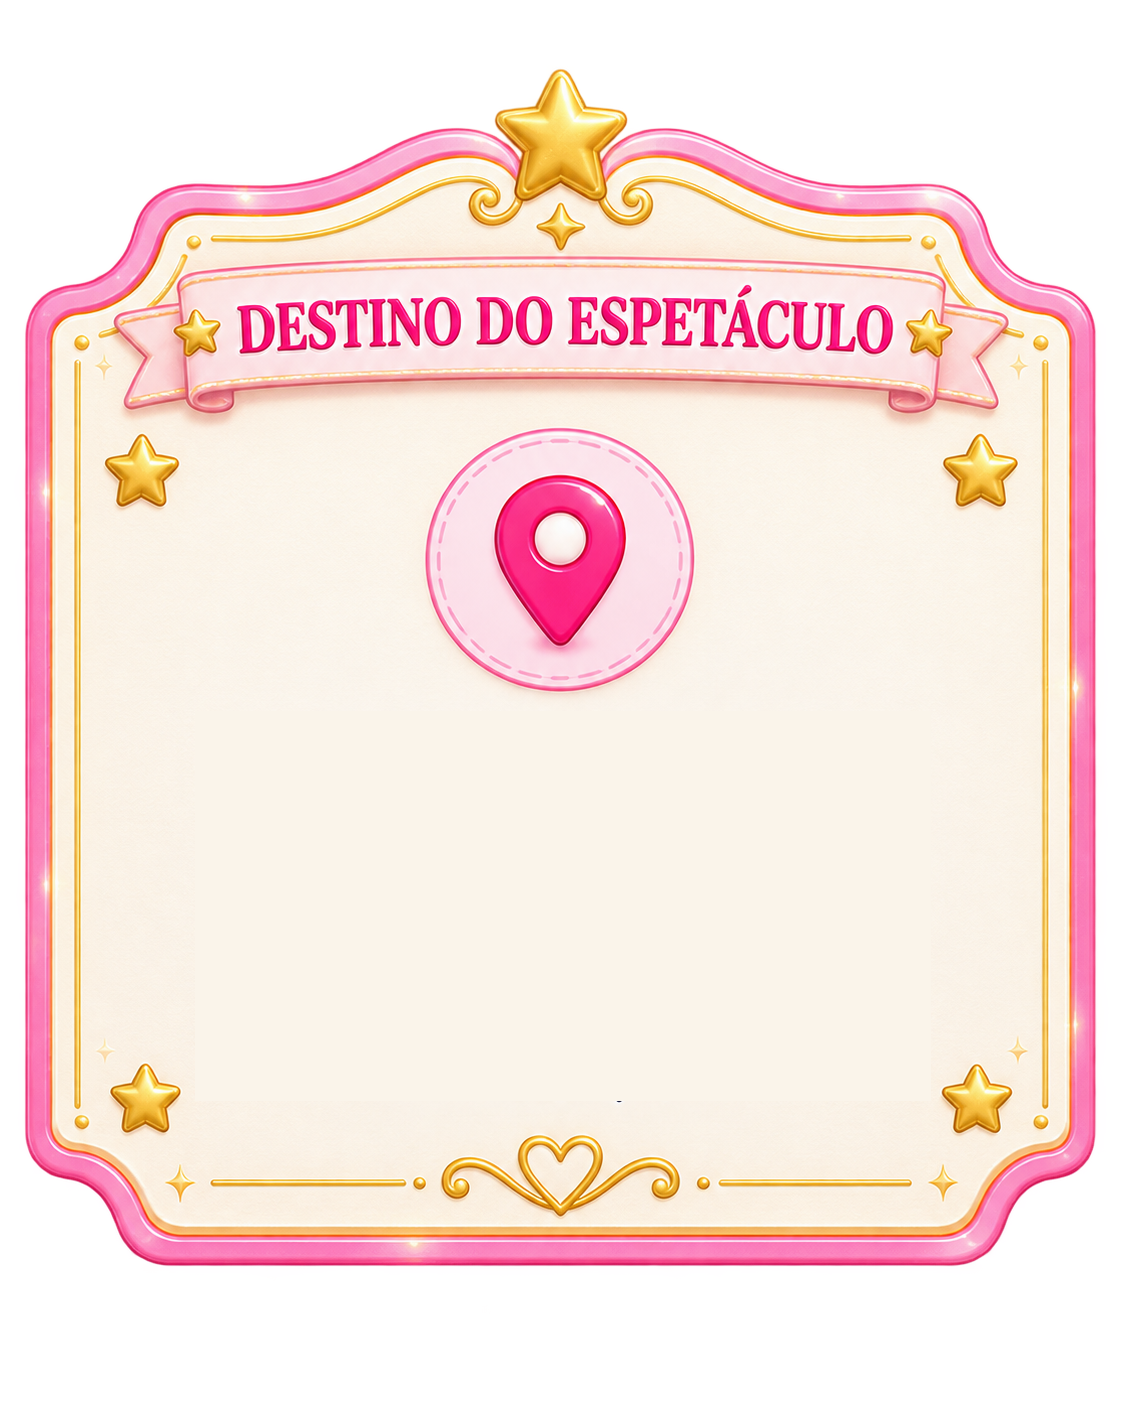
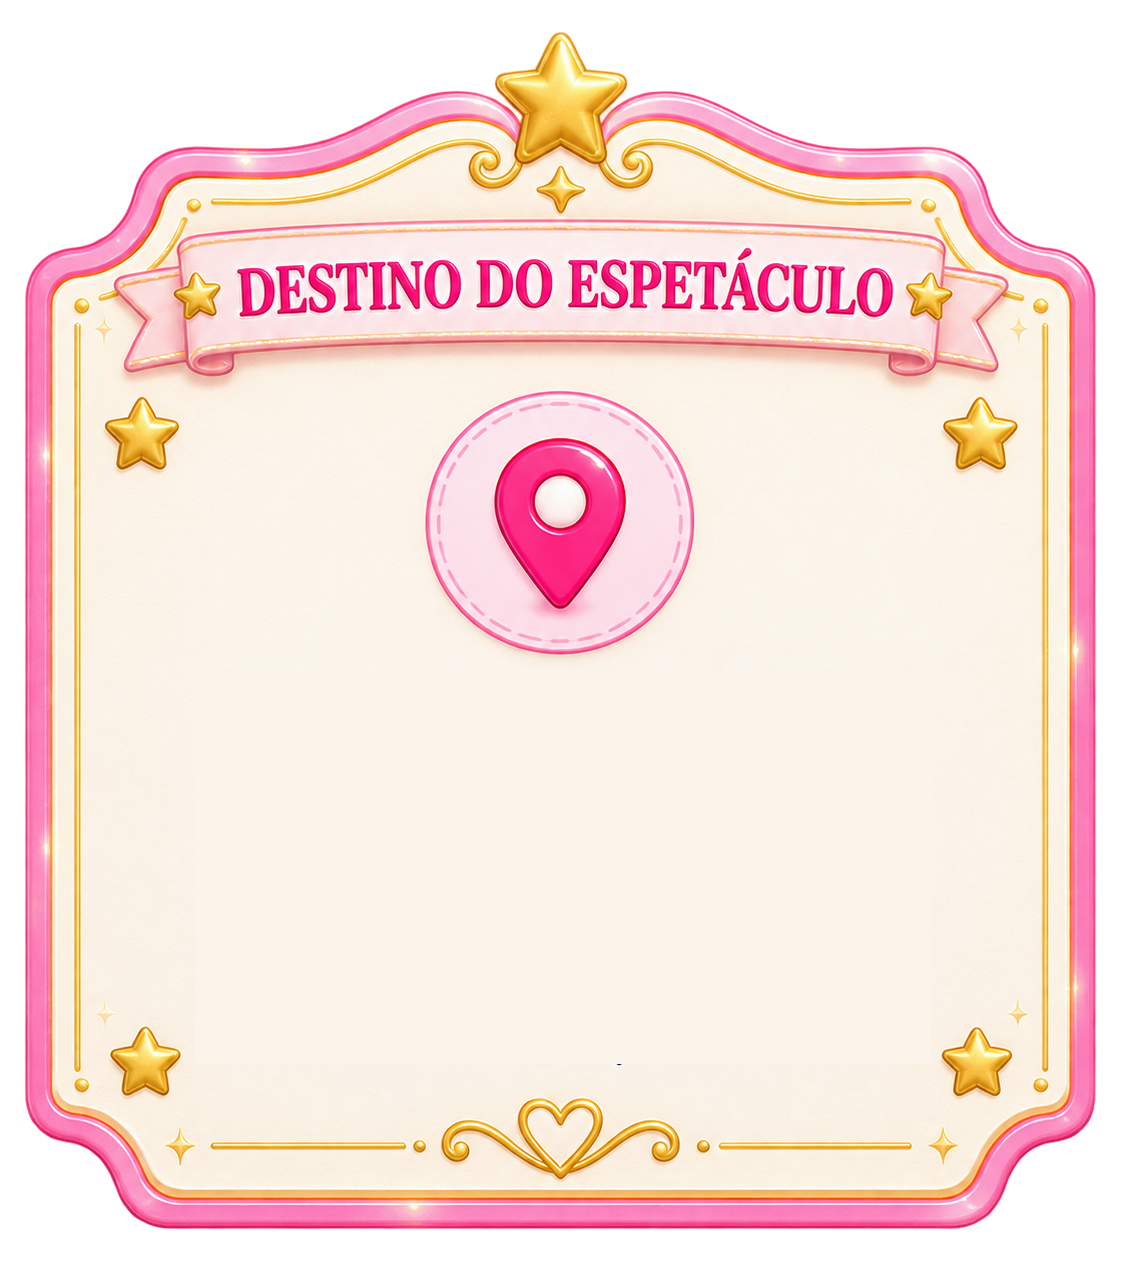
Atualiza convite digital

diff --git a/css/style.css b/css/style.css
@@ -587,7 +587,8 @@ h2 {
   max-height: 760px;
   aspect-ratio: 1086 / 1448; 
   flex: 0 0 auto;
-  margin: -18px auto 0; /* puxa o card para cima */
+  margin: -5px auto 0; /* puxa o card para cima */
+  transform: translateY(2%);
 }
 
 .ticket-frame { 
@@ -694,13 +695,15 @@ h2 {
 .ticket-clouds {
   position: absolute;
   z-index: 0;
-  left: 50%;
-  right: auto;
-  bottom: -12%;
-  width: 130%;
+  right: 0;
+  bottom: -14%;
+  left: 0;
+  width: clamp(360px, 118vw, 520px);
+  margin-inline: auto;
   max-width: none;
   height: auto;
-  transform: translateX(-50%);
+  transform: none;
+  content: url("../assets/images/decorations/nuvens-candy-01.png");
   opacity: .9;
   filter: drop-shadow(0 8px 8px rgba(141, 170, 192, .16));
   pointer-events: none;
@@ -831,7 +834,28 @@ h2 {
 
 .destination-btn-img:hover, 
 .destination-btn-img:focus-visible { 
-  transform: translateY(-5%) scale(1.03);
+  transform: translateY(-7%) scale(1.04);
+}
+
+.destination-btn-img img {
+  animation: destinationButtonAttention 2.3s ease-in-out infinite;
+  transform-origin: center;
+}
+
+@keyframes destinationButtonAttention {
+  0%, 100% {
+    filter: drop-shadow(0 4px 5px rgba(207, 73, 122, .12));
+    transform: translateY(0) scale(1);
+  }
+
+  50% {
+    filter: drop-shadow(0 10px 12px rgba(207, 73, 122, .28));
+    transform: translateY(-5px) scale(1.03);
+  }
+}
+
+@media (prefers-reduced-motion: reduce) {
+  .destination-btn-img img { animation: none; }
 }
 
 /* Cenário Inferior (Placa, Tenda e Nuvens de Base) */
@@ -873,7 +897,7 @@ h2 {
   position: absolute; 
   z-index: 1;
   left: 50%;
-  bottom: -66px;
+  bottom: -120px;
   width: 135%;
   max-width: none; 
   transform: translateX(-50%);
@@ -906,12 +930,29 @@ h2 {
 .countdown-location-image-button { position: relative; z-index: 4; display: block; width: min(78%, 280px); margin: 0 auto; padding: 0; border: 0; background: transparent; box-shadow: none; }
 .countdown-location-image-button img { display: block; width: 100%; height: auto; animation: confirmPresenceHint 3.1s ease-in-out infinite; }
 .countdown-location-image-button:focus, .countdown-location-image-button:focus-visible { outline: none; box-shadow: none; }
+.countdown-declined-message {
+  position: relative;
+  z-index: 4;
+  width: min(78%, 280px);
+  margin: 0 auto;
+  padding: 12px 14px;
+  border: 1px solid rgba(238, 124, 164, .34);
+  border-radius: 16px;
+  background: rgba(255, 249, 246, .86);
+  box-shadow: 0 4px 0 rgba(235, 145, 174, .14);
+  color: #665b61;
+  font-size: 11px;
+  font-weight: 600;
+  line-height: 1.45;
+  text-align: center;
+}
 
 /* ==========================================================================
    10. SEÇÃO 5: RSVP (CONFIRMAÇÃO DE PRESENÇA)
    ========================================================================== */
 .rsvp::before { background: linear-gradient(180deg, #fff9f2 0%, #ffedf1 60%, #f7dfe9 100%); }
 .rsvp .section-content { padding-top: clamp(36px, 5.5svh, 54px); }
+.rsvp-content { z-index: 4; }
 .rsvp h2 { max-width: 290px; margin-bottom: var(--gap-xs); font-size: clamp(29px, 7.8vw, 36px); line-height: .92; }
 .rsvp-greeting { margin: var(--space-sm) 0; color: #5e5358; font-family: "DM Serif Display", Georgia, serif; font-size: 17px; line-height: 1.28; }
 .rsvp-greeting::first-line { color: var(--rose-strong); }
@@ -920,7 +961,7 @@ h2 {
 .rsvp-actions { display: grid; width: min(100%, 292px); gap: var(--space-xs); margin: 0 auto; }
 .rsvp-image-button { width: 100%; }
 .rsvp-image-button:disabled { cursor: not-allowed; opacity: .62; }
-.rsvp-tent { position: relative; z-index: 2; width: auto; max-width: min(80%, 280px); max-height: clamp(145px, 24svh, 240px); height: auto; flex: 1 1 auto; min-height: 0; margin: var(--gap-xs) auto; opacity: 1; }
+.rsvp-tent { position: relative; z-index: 2; width: auto; max-width: min(92%, 400px); max-height: clamp(208px, 34.5svh, 345px); height: auto; flex: 1 1 auto; min-height: 0; margin: var(--gap-xs) auto; opacity: 1; }
 .inline-status { position: relative; z-index: 4; min-height: 1em; margin: 8px 0 0; color: var(--rose-deep); font-size: 11px; font-weight: 700; }
 .rsvp .section-next { margin-top: var(--gap-xs); }
 

diff --git a/convite.html b/convite.html
@@ -121,6 +121,11 @@
           <a class="countdown-location-image-button image-button" href="#local" id="countdown-location-btn" aria-label="Como chegar">
             <img src="assets/images/ui/como-chegar.png" alt="Como chegar" loading="lazy" />
           </a>
+          <p class="countdown-declined-message is-hidden" id="countdown-declined-message" aria-hidden="true">
+            Sua presença não está confirmada.<br /><br />
+            Se os planos mudaram e agora vocês puderem estar conosco nesse dia especial,<br />
+            entre em contato com papai e mamãe para combinarmos tudo com carinho.
+          </p>
         </section>
 
         <section class="rsvp section-panel" id="rsvp" aria-labelledby="rsvp-title">
@@ -134,7 +139,7 @@
             </div>
             <p class="inline-status" id="rsvp-status" role="status"></p>
           </div>
-          <img class="rsvp-tent" src="assets/images/circus/tenda-circo-02.png" alt="" aria-hidden="true" loading="lazy" />
+          <img class="rsvp-tent" src="assets/images/circus/carrossel-02.png" alt="" aria-hidden="true" loading="lazy" />
         </section>
 
         <section class="guests section-panel is-hidden" id="convidados" aria-labelledby="guests-title" aria-hidden="true">
@@ -195,6 +200,22 @@
               alt="Como chegar ao circo"
               loading="lazy"
             />
+          </a>
+        </section>
+
+        <section class="success section-panel is-hidden" id="despedida" aria-labelledby="farewell-title" aria-hidden="true">
+          <img class="scene-asset top-bunting" src="assets/images/decorations/bandeirolas-01.png" alt="" aria-hidden="true" loading="lazy" />
+          <img class="scene-asset success-confetti" src="assets/images/decorations/confetes.png" alt="" aria-hidden="true" loading="lazy" />
+          <img class="scene-asset success-balloons" src="assets/images/decorations/buque-baloes-02.png" alt="" aria-hidden="true" loading="lazy" />
+          <div class="section-inner section-content reveal">
+            <h2 id="farewell-title">Sentiremos<br />sua falta!</h2>
+            <p class="lead-copy">Nem sempre conseguimos estar juntos em todos os momentos,<br />mas novas oportunidades virão e teremos muitas outras ocasiões especiais para celebrar.</p>
+            <div class="ornament-line" aria-hidden="true"><span>♥</span></div>
+            <p class="body-copy">Com carinho,<br /><strong>Liz &amp; Luna</strong></p>
+          </div>
+          <img class="success-twins reveal" src="assets/images/characters/personagens-abracadas.png" alt="Liz e Luna abraçadas" loading="lazy" />
+          <a class="asset-next-button section-next soft" href="#contagem" aria-label="Ver a contagem regressiva">
+            <img src="assets/images/ui/botao-continuar.png" alt="" aria-hidden="true" loading="lazy" />
           </a>
         </section>
         <!-- Modal Seletor de Mapas -->

diff --git a/js/app.js b/js/app.js
@@ -283,6 +283,17 @@ document.addEventListener('DOMContentLoaded', async () => {
     setHeroEntryImage('assets/images/ui/entrar-no-circo.png', 'Entrar no circo');
   };
 
+  const setCountdownResponseState = (status) => {
+    const isDeclined = status === 'declined';
+    const locationButton = document.querySelector('#countdown-location-btn');
+    const declinedMessage = document.querySelector('#countdown-declined-message');
+
+    locationButton.classList.toggle('is-hidden', isDeclined);
+    locationButton.setAttribute('aria-hidden', String(isDeclined));
+    declinedMessage.classList.toggle('is-hidden', !isDeclined);
+    declinedMessage.setAttribute('aria-hidden', String(!isDeclined));
+  };
+
   const showInvitationLoadError = () => {
     dataState = 'error';
     retryInvitationData = startInvitationRequest;
@@ -323,6 +334,7 @@ document.addEventListener('DOMContentLoaded', async () => {
       setFamilyGreeting(invite.familyLabel);
       enableRsvpActions();
       setResponseNavigation(Boolean(currentStatus), currentStatus);
+      setCountdownResponseState(currentStatus);
 
       if (isConfirmed) {
         const success = document.querySelector('#confirmacao');
@@ -339,6 +351,7 @@ document.addEventListener('DOMContentLoaded', async () => {
           code,
           onDeclined: () => {
             setResponseNavigation(true, 'declined');
+            setCountdownResponseState('declined');
             showToast('Resposta registrada. Obrigado por avisar!');
           },
           onConfirmed: () => {

diff --git a/js/rsvp.js b/js/rsvp.js
@@ -153,7 +153,10 @@ function createRsvpController({ invite, code, onConfirmed, onDeclined }) {
         heroEntryButton.href = '#contagem';
         heroEntryButton.innerHTML = 'O Espetáculo Começa em... <span aria-hidden="true">↗</span>';
         onDeclined?.();
-        window.setTimeout(() => window.goToSection?.('#contagem'), 700);
+        const farewell = document.querySelector('#despedida');
+        farewell.classList.remove('is-hidden');
+        farewell.setAttribute('aria-hidden', 'false');
+        window.goToSection?.('#despedida');
       } catch (error) {
         rsvpStatus.textContent = getErrorMessage(error);
       } finally {
